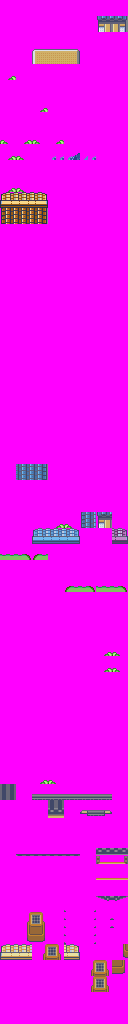
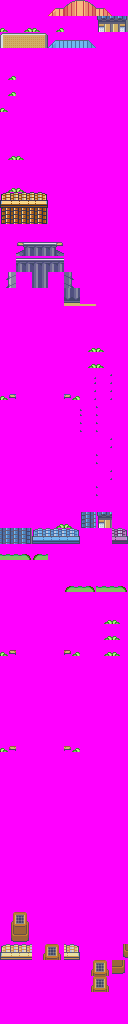
Softwind tower colors and flower garden.

diff --git a/src/data/heal_locations.h b/src/data/heal_locations.h
@@ -23,7 +23,7 @@ static const struct HealLocation sHealLocations[] =
     [HEAL_LOCATION_SOUTHERN_ISLAND_EXTERIOR - 1] = {MAP_GROUP(SOUTHERN_ISLAND_EXTERIOR), MAP_NUM(SOUTHERN_ISLAND_EXTERIOR), 15, 20},
     [HEAL_LOCATION_BATTLE_FRONTIER_OUTSIDE_EAST - 1] = {MAP_GROUP(BATTLE_FRONTIER_OUTSIDE_EAST), MAP_NUM(BATTLE_FRONTIER_OUTSIDE_EAST), 3, 52},
     [HEAL_LOCATION_NEO_BAY - 1] = {MAP_GROUP(NEO_BAY), MAP_NUM(NEO_BAY), 34, 24},
-    [HEAL_LOCATION_SOFTWIND_CITY - 1] = {MAP_GROUP(SOFTWIND_CITY), MAP_NUM(SOFTWIND_CITY), 23, 42},
+    [HEAL_LOCATION_SOFTWIND_CITY - 1] = {MAP_GROUP(SOFTWIND_CITY), MAP_NUM(SOFTWIND_CITY), 23, 48},
     [HEAL_LOCATION_SUNSET_VILLAGE - 1] = {MAP_GROUP(SUNSET_VILLAGE), MAP_NUM(SUNSET_VILLAGE), 27, 23},
     [HEAL_LOCATION_CRANEWING_CITY - 1] = {MAP_GROUP(CRANEWING_CITY), MAP_NUM(CRANEWING_CITY), 23, 21},
     [HEAL_LOCATION_MISTVALE_CITY - 1] = {MAP_GROUP(MISTVALE_CITY), MAP_NUM(MISTVALE_CITY), 44, 28},

diff --git a/include/constants/metatile_labels.h b/include/constants/metatile_labels.h
@@ -761,8 +761,8 @@
 
 // gTileset_Softwind
 #define METATILE_Softwind_Door_Blue    0x225
-#define METATILE_Softwind_Door_Brown   0x22A
-#define METATILE_Softwind_Door_Purple  0x22C
+#define METATILE_Softwind_Door_Brown   0x222
+#define METATILE_Softwind_Door_Purple  0x224
 
 // gTileset_Sootopolis
 #define METATILE_Sootopolis_Door             0x21E
